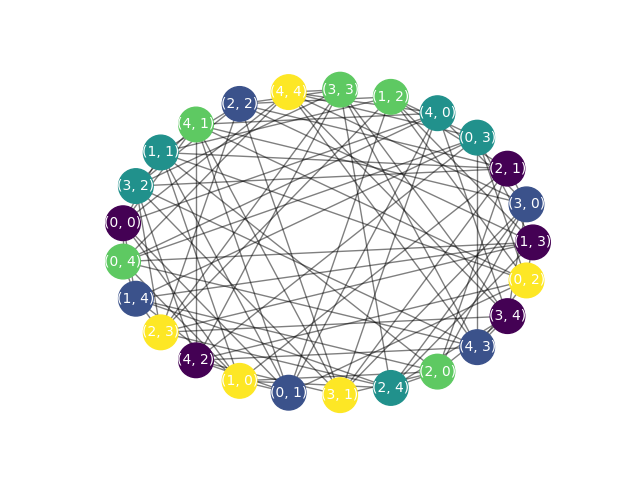
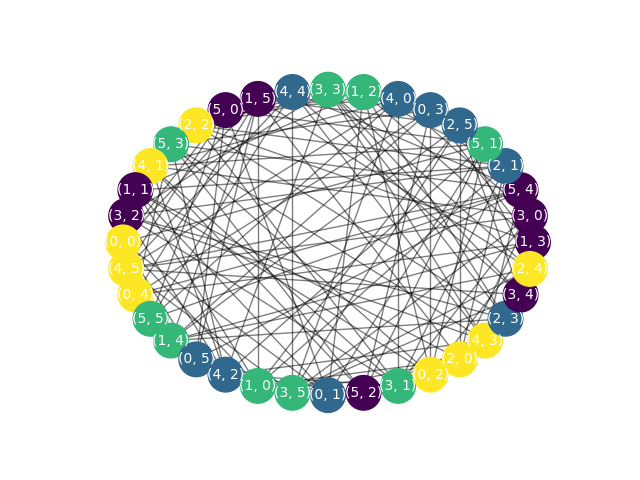
Add first pass at graph computations from paper.

Changed region(s): [[0.1562, 0.125, 0.875, 0.875]]

diff --git a/indset.py b/indset.py
@@ -3,6 +3,102 @@ import networkx as nx
 import itertools
 from random import choice
 
+#expects a vertex yr, table s, MIS k
+def reachableYR(yr, s, k):
+    len_y = len(s[0])
+    for x in k:
+        for y in range(len_y):
+            if s[x][y][yr] > 0:
+                return True
+    return False
+
+def reachableY(y, s, k):
+    len_yr = len(s[0][0])
+    for x in k:
+        for yr in range(len_yr):
+            if s[x][y][yr] > 0:
+                return True
+    return False
+
+def connectGRKEdges(grk, s, k):
+    len_x = len(s)
+    len_y = len(s[0])
+    len_yr = len(s[0][0])
+
+    reachable_yr = grk.nodes()
+
+
+    #major candidate for refactoring obviously - the huge compound if
+    #statement is just checking all of the conditions specified
+    #for GR|K
+    for y in range(len_y):
+        for yr_i in range(len_yr):
+            for x_i in range(len_x):
+                for yr_j in range(len_yr):
+                    for x_j in range(len_x):
+                        if (    x_i != x_j
+                            and yr_i != yr_j
+                            and reachableY(y, s, k)
+                            and yr_i in reachable_yr
+                            and yr_j in reachable_yr
+                            and x_i in k
+                            and x_j in k
+                            and s[x_i][y][yr_i] > 0
+                            and s[x_j][y][yr_j] > 0
+                        ):
+                            grk.add_edge(yr_i, yr_j)
+
+#generate the confusability graph
+def generateGXYYR(s):
+    len_x = len(s)
+    len_y = len(s[0])
+    len_yr = len(s[0][0])
+
+    #initialize nodes of g as x values
+    g = nx.Graph()
+    g.add_nodes_from([v for v in range(len_x)])
+
+    print "g nodes"
+    print g.nodes()
+
+    #todo: can probably refactor this into a
+    #list comprehension, not a big deal right now.
+    #for each x, check if it is confusable with another x'
+    #by exhaustively checking for a common, nonzero (y,yr) pair.
+    #add an edge between these two x vertices.
+    for x_i in range(len_x):
+        for y in range(len_y):
+            for yr in range(len_yr):
+                for x_j in range(len_x):
+                    if (x_i != x_j) and (s[x_i][y][yr] > 0) and (s[x_j][y][yr] > 0):
+                        g.add_edge(x_i,x_j)
+    
+    print "edges after comparison"
+    print g.edges()
+    return g
+
+#expects G_X|Y,Y_r, s
+def generateGRK(g, s):
+    len_x = len(s)
+    len_y = len(s[0])
+    len_yr = len(s[0][0])
+    #enumerate all maximum independent sets
+    ind = []
+    for n in itertools.combinations(g.nodes(), setUtil(g)):
+        if isIndependent(g,set(n)):
+            ind.append(n)
+    print "All MISs of Gx|y,yr:"
+    print ind
+
+    for k in ind:
+        grk = nx.Graph()
+        nodes = [yr for yr in range(len_yr) if reachableYR(yr, s, k)]
+        grk.add_nodes_from(nodes)
+        print "grk nodes:"
+        print grk.nodes()
+        connectGRKEdges(grk, s, k)
+        print "connected edges in GR|K:"
+        print grk.edges()
 
 #todo: see if there is a speed difference
 #between constructing a set of the neighbors and the nodes
@@ -78,16 +174,52 @@ def setUtil(graph):
 
         return max(1+setUtil(withU), 1+setUtil(withV), 1+setUtil(withW))
 
-G = nx.cycle_graph(7)
-S = nx.strong_product(G, G)
+
+#s indexed as s[x][y][y_r] representing
+#p(y = a, y_r = b | x = c)
+
+#this populates s randomly
+#s = [[[choice([0,1]) for x in range(5)] for y in range(5)] for z in range(5)]
+
+#this populates s with all zeros so we can assign specific nonzero values...
+s = [[[0 for x in range(5)] for y in range(5)] for z in range(5)]
+
+#using the table from the paper plus junk (nonzero) values.
+s[0][0][2] = .4
+s[0][0][3] = .4
+s[0][1][0] = .1
+s[0][1][1] = .9
+s[1][1][1] = .9
+s[1][2][2] = .9
+s[2][2][0] = .9
+s[2][3][2] = .9
+s[3][1][3] = .9
+s[3][3][3] = .9
+s[3][4][2] = .9
+s[4][0][0] = .9
+s[4][4][4] = .9
+
+for row in s:
+    print row
+
+
+#generate the confusability graph G of X given Y, YR
+gxyyr = generateGXYYR(s)
+
+#from that generate G R given K graphs.
+generateGRK(gxyyr, s)
+
+
+#G = nx.cycle_graph(7)
+#S = nx.strong_product(G, G)
 
 # a = nx.convert.to_dict_of_lists(G)
 
 # print [r for r in a]
 
-for n in itertools.combinations(S.nodes(), setUtil(S)):
-    if isIndependent(S,set(n)):
-        print n
+# for n in itertools.combinations(S.nodes(), setUtil(S)):
+#     if isIndependent(S,set(n)):
+#         print n
 
 
 

diff --git a/coloring.py b/coloring.py
@@ -73,7 +73,7 @@ def colorUtil(vertex, vertexList, graph, k, n):
     return False
 
 #test out algorithm
-G = nx.cycle_graph(5)
+G = nx.cycle_graph(6)
 S = nx.strong_product(G,G)
 
 for n in S.nodes():
@@ -89,7 +89,7 @@ for v in vertexIter:
     vertexList.append(v)
 
 #attempt a 5 coloring
-colorUtil(vertexList[0], vertexList, S, 5, 0)
+colorUtil(vertexList[0], vertexList, S, 4, 0)
 
 for n in S.nodes(data=True):
     print n
@@ -97,6 +97,7 @@ print "colors used:"
 print countColorsUsed(S)
 print "Largest set with same color:"
 print maxCommonColorSet(S)
+print "With size %d" % len(maxCommonColorSet(S))
 #print "verify solution: "
 #verifyColoring(S)
 
